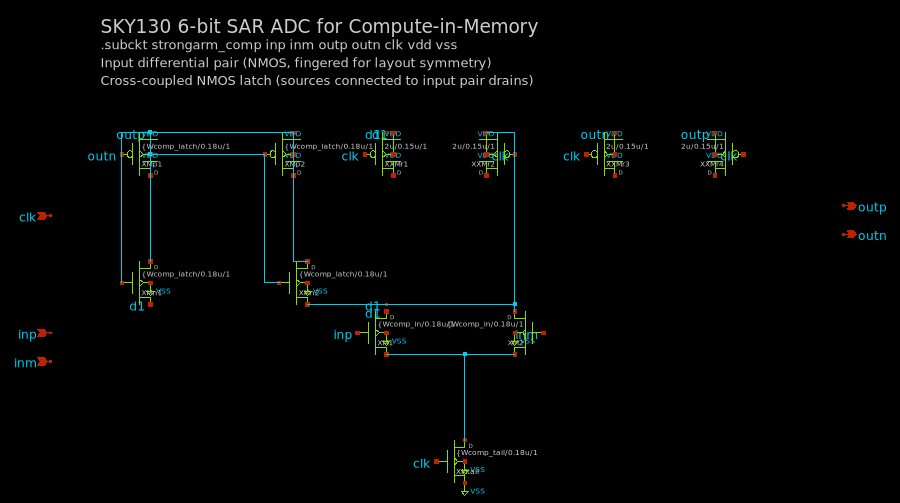
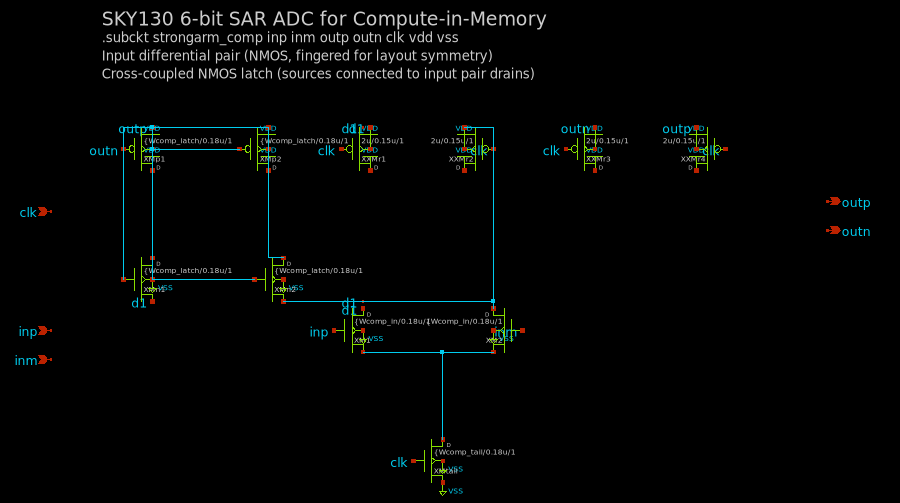
Tighter cross-coupled latch spacing (180 instead of 220)
SRAM bitcell latch inverters closer together for more visible
cross-coupling connections.

All 0 crossings.

diff --git a/src/placer.py b/src/placer.py
@@ -487,7 +487,7 @@ def place_circuit(circuit: Circuit) -> PlacedCircuit:
                                 result.placements[ncomp_name] = Placement(
                                     x=_snap(latch_x), y=_snap(latch_nmos_y))
                                 latch_placed.update([cc_p.components[pi], ncomp_name])
-                                latch_x += H_SPACING
+                                latch_x += 180  # Compact spacing for cross-coupled inverters
                                 break
 
     # Place access transistors near their latch connections
